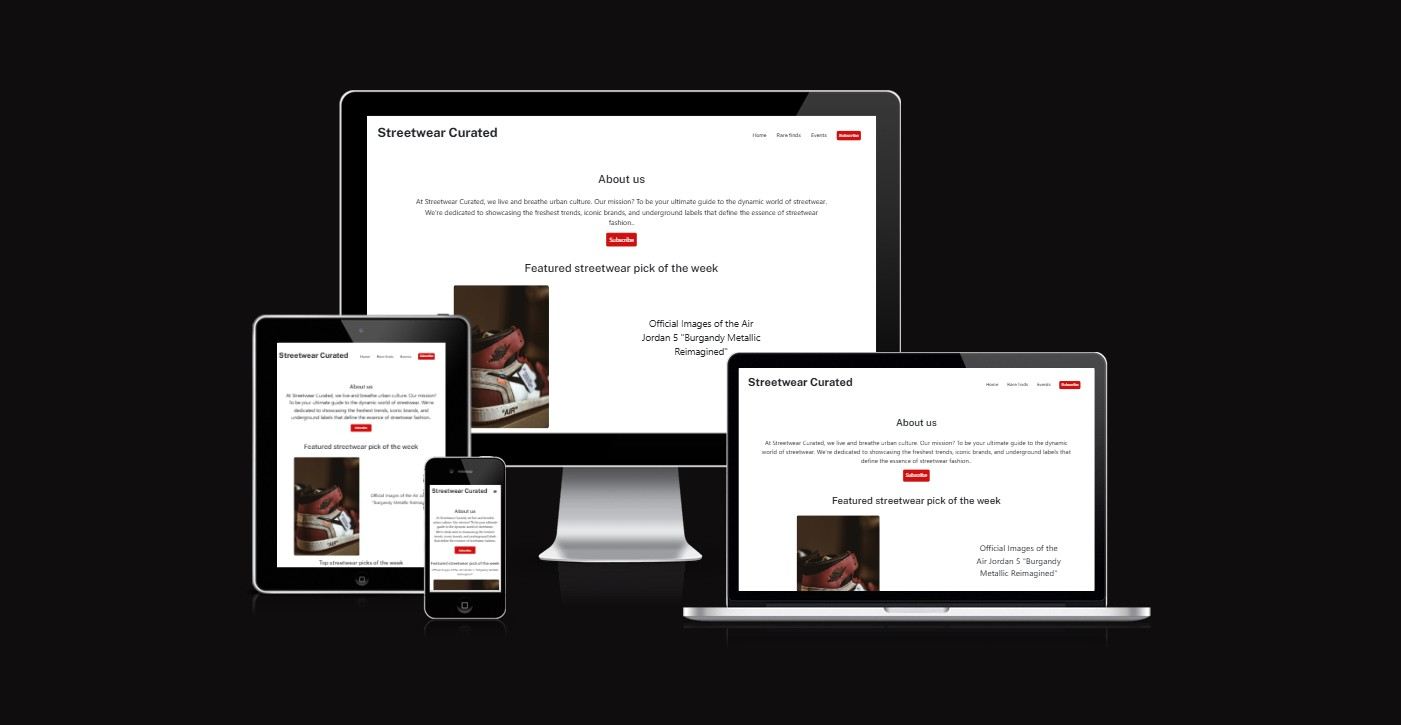
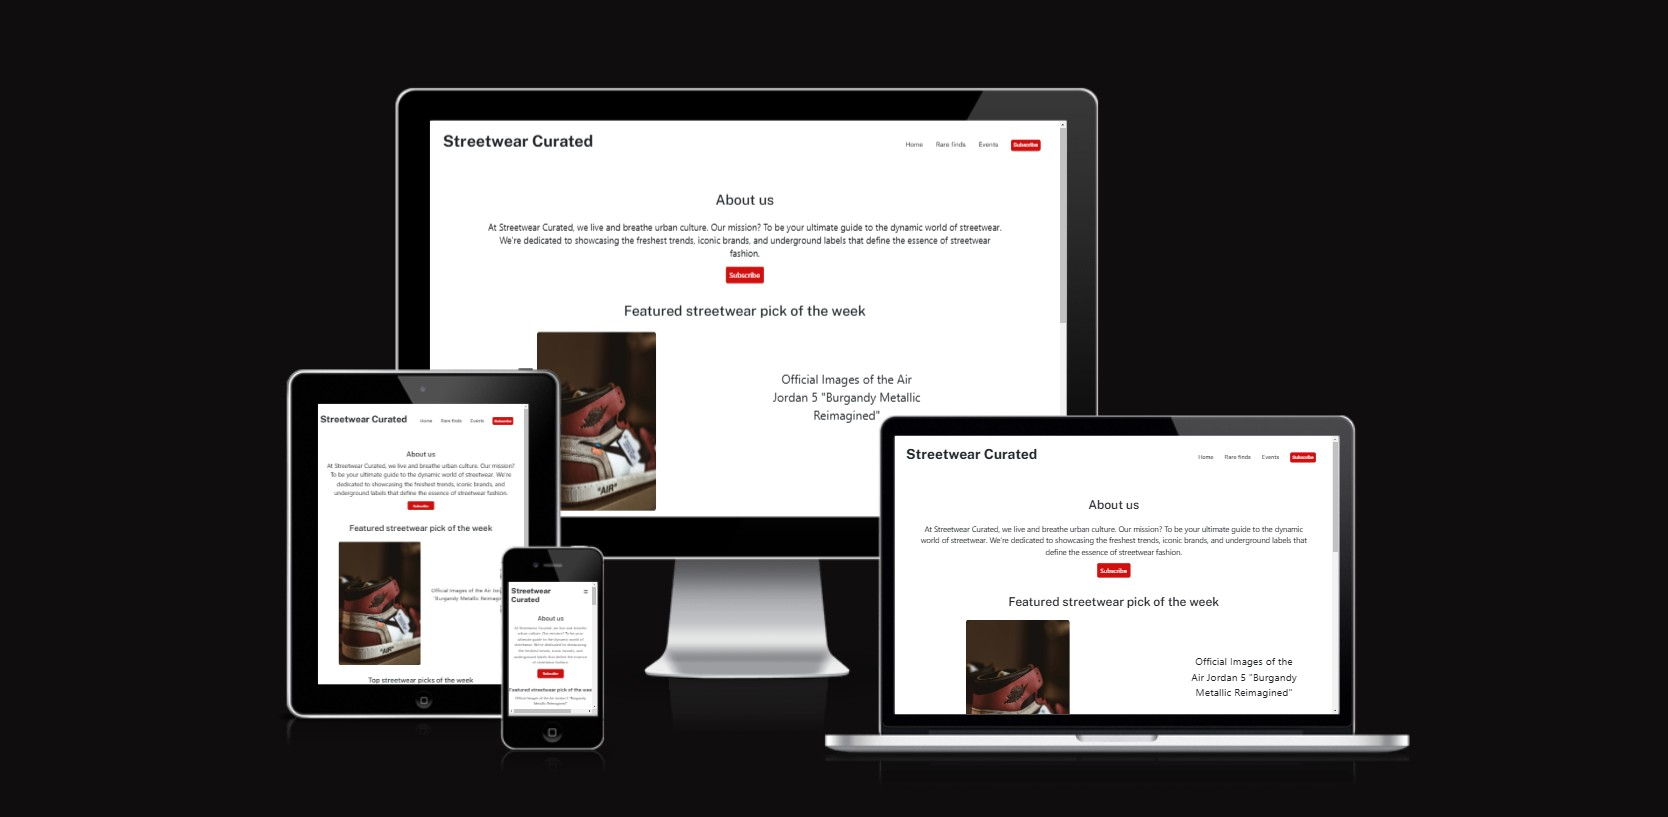
Replace responsive mockup image with the latest version

Changed region(s): [[0.1535, 0.091, 0.8594, 0.9407], [0.3069, 0.9103, 0.3683, 0.9407]]

diff --git a/README.md b/README.md
@@ -236,7 +236,7 @@ In order to make a local copy of this project clone it in your IDE Terminal usin
 ### Media
 
 Images sourced from : https://unsplash.com/
-
+ReadMe responsive mock up from: https://ui.dev/amiresponsive
 ---
 
 ### Credits
